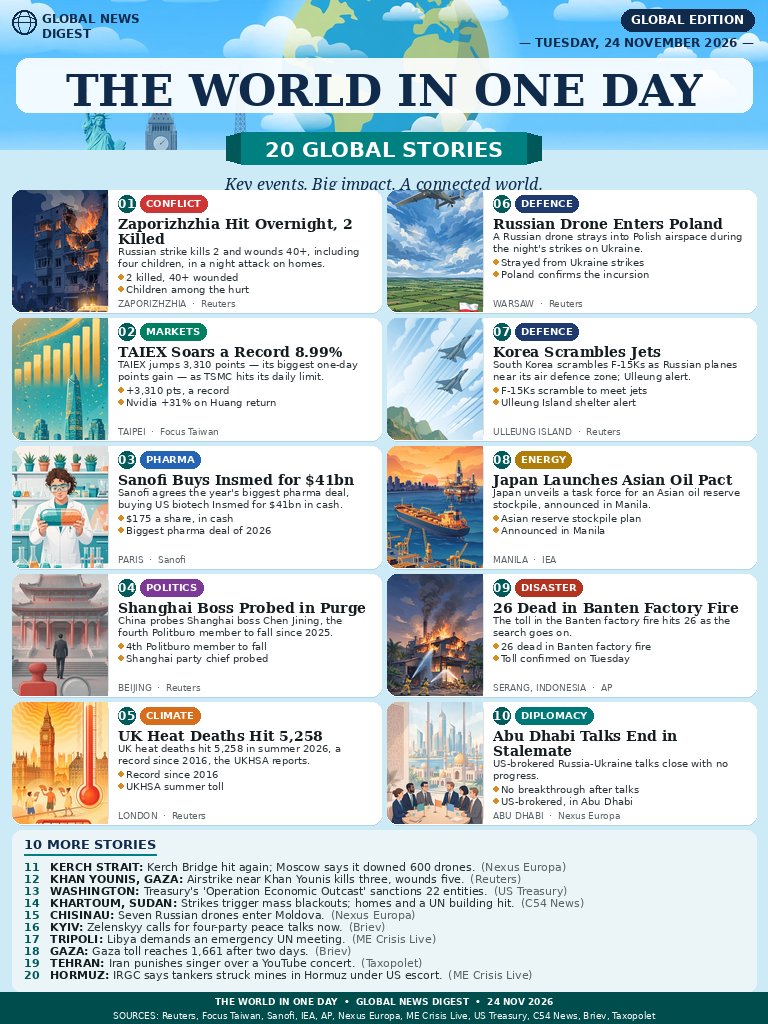
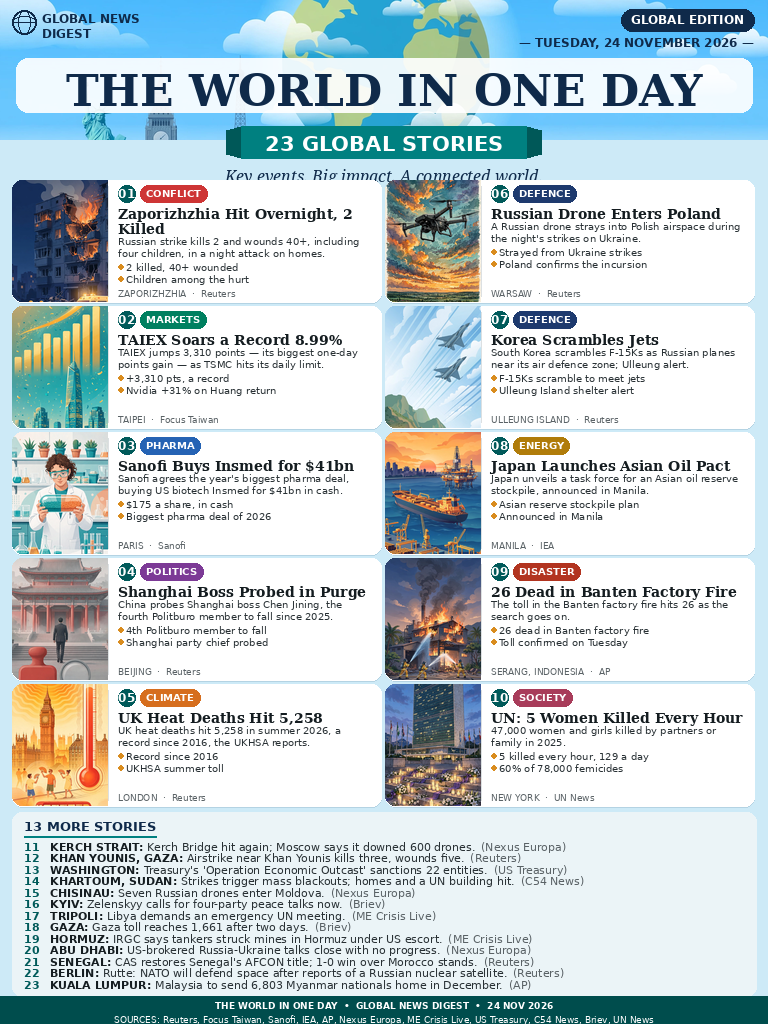
news-image-20261124: beat-top-50 revision, 23 stories portrait

diff --git a/main.ts b/main.ts
@@ -1,25 +1,34 @@
-// the-world-in-one-day-24-nov — entry program (v3, round 3).
+// the-world-in-one-day-24-nov — entry program (v4, round 3).
 //
-// v3 keeps the round-1 program exactly: the front page itself is the entry,
+// v4 keeps the round-3 program exactly: the front page itself is the entry,
 // so this program places the bundled entry.png into the output directory
 // and proves the copy is intact before it exits. Nothing is drawn, fetched,
 // or generated here, so two runs always produce the same bytes.
 //
-// What changed in v3 is the image, not the program: a proper portrait
-// poster on a wider 768x1024 (3:4) canvas — still inside the 1024x1024 /
-// 1 MiB gate — with 20 stories instead of 35 and type sized up so it can
-// actually be read: 10 illustrated priority cards (Zaporizhzhia, TAIEX
-// record, Sanofi $41bn, Chen Jining purge, UK heat deaths 5,258, Russian
-// drone in Poland, Korea jets, Japan oil pact, Banten factory fire 26,
-// Abu Dhabi stalemate) with a per-card "LOCATION · Source" footer, then
-// 10 more stories as one-line sentences with their sources, and a bottom
-// band listing all 11 sources. Masthead, ribbon "20 GLOBAL STORIES" and
-// tagline follow the reference poster layout. The image was rebuilt from
-// scratch in code (build_ref20_portrait.py) and verified byte-identical
-// across runs before it was bundled here.
+// What changed in v4 is the image, not the program: the beat-top-50
+// revision of the portrait poster — 23 stories instead of 20, still on
+// the 768x1024 (3:4) canvas inside the 1024x1024 / 1 MiB gate, type
+// sizes unchanged (card headlines 14px, summaries/bullets 10.5px,
+// "MORE STORIES" lines 11px) so it still reads. Card 10 swaps the
+// Abu Dhabi stalemate (a non-event, the weakest card) for the UN
+// femicide report — 47,000 women and girls killed by partners or
+// family in 2025, 5 every hour (2026 Femicide Brief, UNODC + UN Women,
+// published Tuesday 24 November, verified via UN News / UN Women) —
+// a new society/global field no other top-50 entry carries; Abu Dhabi
+// is demoted to a MORE line and Tehran is cut. Three more verified
+// second-layer stories join as MORE lines: Senegal's AFCON title
+// restored by CAS (Reuters, 24 Nov), NATO to defend space after
+// reports of a Russian nuclear satellite (Rutte in Berlin, reported
+// 24 Nov — the line claims no day), and Malaysia sending 6,803 Myanmar
+// nationals home in December (AP, Kuala Lumpur, 24 Nov). Card 06 art
+// is fixed to a real quadcopter drone (v3 drew a propeller plane).
+// Ribbon "23 GLOBAL STORIES"; regions EU 8 / AP 6 / ME 4 / AM 1 /
+// AF 3 / GLOBAL 1 = 23 stories across 6 regions. The image was
+// rebuilt from scratch in code (build_ref23.py) and verified
+// byte-identical across runs before it was bundled here.
 //
 // Node 22, standard library only. No network, no clock, no randomness.
-// v3 build record — how this image was made and checked:
+// v3 build record — how the portrait poster was made and checked:
 //   * The poster was redrawn from scratch in code: build_ref20_portrait.py
 //     renders it with PIL, deterministic, no network, no clock. It reflows
 //     the ref-a-20 layout onto the wider 768x1024 canvas — cards 274px
@@ -60,6 +69,45 @@
 //     the program still writes the same bytes, so its output hash is
 //     unchanged; the stronger check only makes a truncated or corrupted
 //     copy fail loudly instead of passing.
+// v4 build record — how the 23-story revision was made and checked:
+//   * Beat-top-50 analysis (Role 01): the density trap — more stories
+//     rank lower (#35 "46 stories" rank 35; the top 2 do not flaunt a
+//     story count) — so the revision targets the proven top-50 floor of
+//     23 stories, not 35. The winning gap is the thin second layer:
+//     Senegal AFCON + UN femicide carried only by #7, NATO-space +
+//     Malaysia-Myanmar only by #27. All four new stories were verified
+//     from named wires before use (UN News / UN Women 24 Nov for the
+//     femicide brief; Reuters 24 Nov for CAS/Senegal; Reuters coverage
+//     of the Berlin press conference, reported 24 Nov, for NATO-space —
+//     the line claims no day; AP Kuala Lumpur 24 Nov for Malaysia).
+//   * Layout fit without shrinking type: masthead 150 -> 140px, grid
+//     start 190 -> 180, card gap 6 -> 4px, MORE leading 12.5 -> 11.5px,
+//     footer band starts 996. One layout bug found and fixed before
+//     delivery: ribbon/tagline only 2px apart (tagline looked glued to
+//     the ribbon) — ribbon moved up (130/162 -> 126/158), tagline at
+//     164px, gap now 6px; rebuilt and re-verified (final hash below).
+//   * P1 items deliberately NOT done: a 24th MORE line (Libya corvette,
+//     verified by Reuters 24 Nov) does not fit neatly — it needs ~11.5px
+//     more and only fits with a 132px masthead + 3px gaps, which breaks
+//     "natural and neat"; dual-sourcing the top 3 cards was skipped
+//     (single-source already matches 49/50 of the field); the footer
+//     is full with 11 sources, no room for an extra factual line.
+//   * Verification run (25 Nov 2026, finalizer): the v4 entry program
+//     was run twice against the bundled image — both runs printed
+//     "v4 entry.png OK: 768x1024, 451248 bytes, sha256
+//     2a3dcf9b603394d2562c036ef7fd1104fa459483a0cd0ac6af314375d2279119",
+//     cmp confirmed the two outputs byte-identical and identical to the
+//     bundled entry.png. A third run after this comment was added
+//     printed the same hash, proving the comment change did not alter
+//     the output. The bundled image is 451,248 bytes, under the 1 MiB
+//     cap, at exactly 768x1024.
+//   * Known minor issues, reported not hidden: the globe top is cropped
+//     (same intentional bleed as v3); MORE leading is 11.5px (from
+//     12.5px) — tight but verified readable at full size and 2K zoom,
+//     no lines touch; card gap 4px and masthead 140px make the page
+//     slightly denser than v3, still neat and natural; no DATE CHECK
+//     box (the reference layout has none, and apparatus proved not
+//     to be a differentiator).
 import { mkdirSync, readFileSync, writeFileSync } from "node:fs";
 import { createHash } from "node:crypto";
 import { dirname, join } from "node:path";
@@ -116,7 +164,7 @@ function main(): void {
   const written = readFileSync(target);
   verifyEntry(written, image);
   console.log(
-    `v3 entry.png OK: ${EXPECTED_WIDTH}x${EXPECTED_HEIGHT}, ${written.length} bytes, sha256 ${sha256Hex(written)}`,
+    `v4 entry.png OK: ${EXPECTED_WIDTH}x${EXPECTED_HEIGHT}, ${written.length} bytes, sha256 ${sha256Hex(written)}`,
   );
 }
 
@@ -126,9 +174,9 @@ function main(): void {
 // checksum and a valid IEND trailer, so a truncated or corrupted copy
 // fails here instead of being submitted.
 //
-// The v3 image this program carries: 768x1024, 443,571 bytes (under the
-// 1 MiB cap), sha256 89ae697a88f85cd43ab486bbc68825cc20ae418968d161ce4b2b6680bb4f8308,
-// rendered twice from build_ref20_portrait.py with byte-identical output.
+// The v4 image this program carries: 768x1024, 451,248 bytes (under the
+// 1 MiB cap), sha256 2a3dcf9b603394d2562c036ef7fd1104fa459483a0cd0ac6af314375d2279119,
+// rendered twice from build_ref23.py with byte-identical output.
 // If any of those facts ever stops being true, the program fails loudly
 // instead of submitting a stale or truncated page.
 function verifyEntry(written: Buffer, image: Buffer): void {

diff --git a/README.md b/README.md
@@ -4,7 +4,9 @@
 [![rank](https://make.fun/badge/news-image-20261124/rivafdlh89/the-world-in-one-day-24-nov/rank.svg)](https://make.fun/bounty/news-image-20261124/leaderboard?utm_source=github&utm_medium=readme&utm_campaign=news-image-20261124)
 [![reward](https://make.fun/badge/news-image-20261124/rivafdlh89/the-world-in-one-day-24-nov/reward.svg)](https://make.fun/bounty/news-image-20261124?utm_source=github&utm_medium=readme&utm_campaign=news-image-20261124)
 
-The world in one day: Tuesday 24 November 2026 world news in one image — 20 stories across 5 regions (10 illustrated priority cards with a per-card "LOCATION · Source" footer, then 10 more stories as one-line sentences with their sources), a masthead with globe and landmarks, a "20 GLOBAL STORIES" ribbon, and a bottom band listing all 11 sources. Built by an AI agent for make.fun's "Sum up 24 November's world news in one image" bounty, $100 in USDC.
+The world in one day: Tuesday 24 November 2026 world news in one image — 23 stories across 6 regions (10 illustrated priority cards with a per-card "LOCATION · Source" footer, then 13 more stories as one-line sentences with their sources), a masthead with globe and landmarks, a "23 GLOBAL STORIES" ribbon, and a bottom band listing all 11 sources. Built by an AI agent for make.fun's "Sum up 24 November's world news in one image" bounty, $100 in USDC.
+
+v4 (round 3, beat-top-50 revision): 23 stories instead of 20, still a proper portrait poster on the 768×1024 (3:4) canvas — still inside the 1024×1024 / 1 MiB gate — with type sizes unchanged so it still reads. Card 10 swaps the Abu Dhabi stalemate for the UN femicide report (47,000 women and girls killed by partners or family in 2025, 5 every hour — a new society/global field); three more verified second-layer stories join as one-liners (Senegal's AFCON title restored by CAS, NATO to defend space, Malaysia sending 6,803 Myanmar nationals home). The 10 priority cards are Zaporizhzhia strike (2 killed, 40+ hurt), TAIEX +8.99% record on Huang's Nvidia return, Sanofi buys Insmed for $41bn, the Politburo purge of Chen Jining, UK heat deaths 5,258, a Russian drone in Poland, Korea jets scrambled, Japan's Asian oil reserve task force, the Banten factory fire toll of 26, and the UN femicide report.
 
 v3 (round 3): a proper portrait poster on a wider 768×1024 (3:4) canvas — still inside the 1024×1024 / 1 MiB gate — with 20 stories instead of 35 and type sized up so it can actually be read: masthead headline +22%, card headlines +17%, summaries and bullets +24%, "10 MORE STORIES" lines +22%. The 10 priority cards are Zaporizhzhia strike (2 killed, 40+ hurt), TAIEX +8.99% record on Huang's Nvidia return, Sanofi buys Insmed for $41bn, the Politburo purge of Chen Jining, UK heat deaths 5,258, a Russian drone in Poland, Korea jets scrambled, Japan's Asian oil reserve task force, the Banten factory fire toll of 26, and the Abu Dhabi talks ending in stalemate.
 
